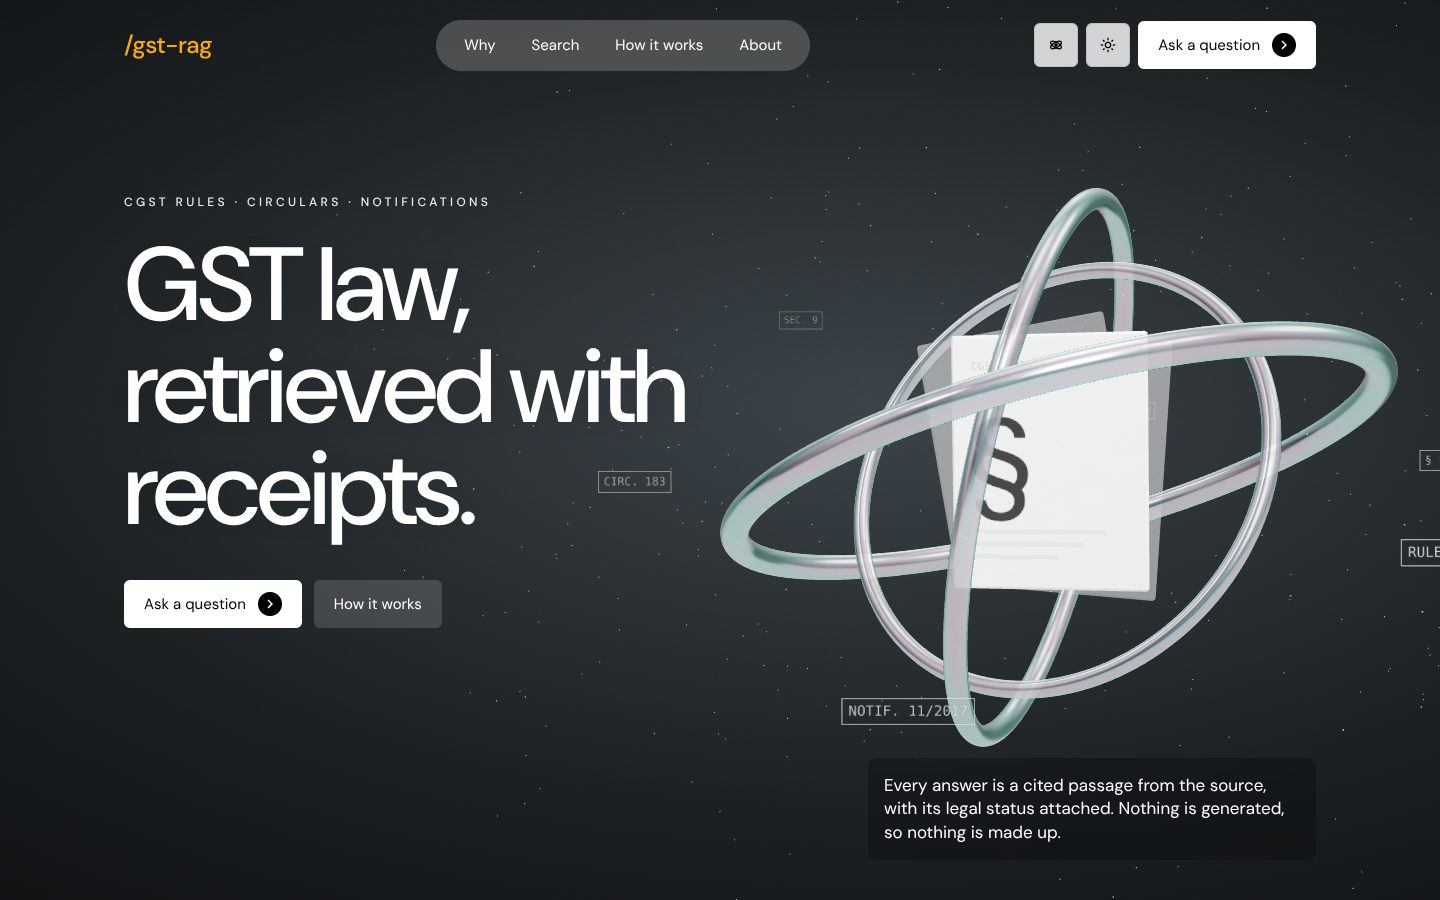
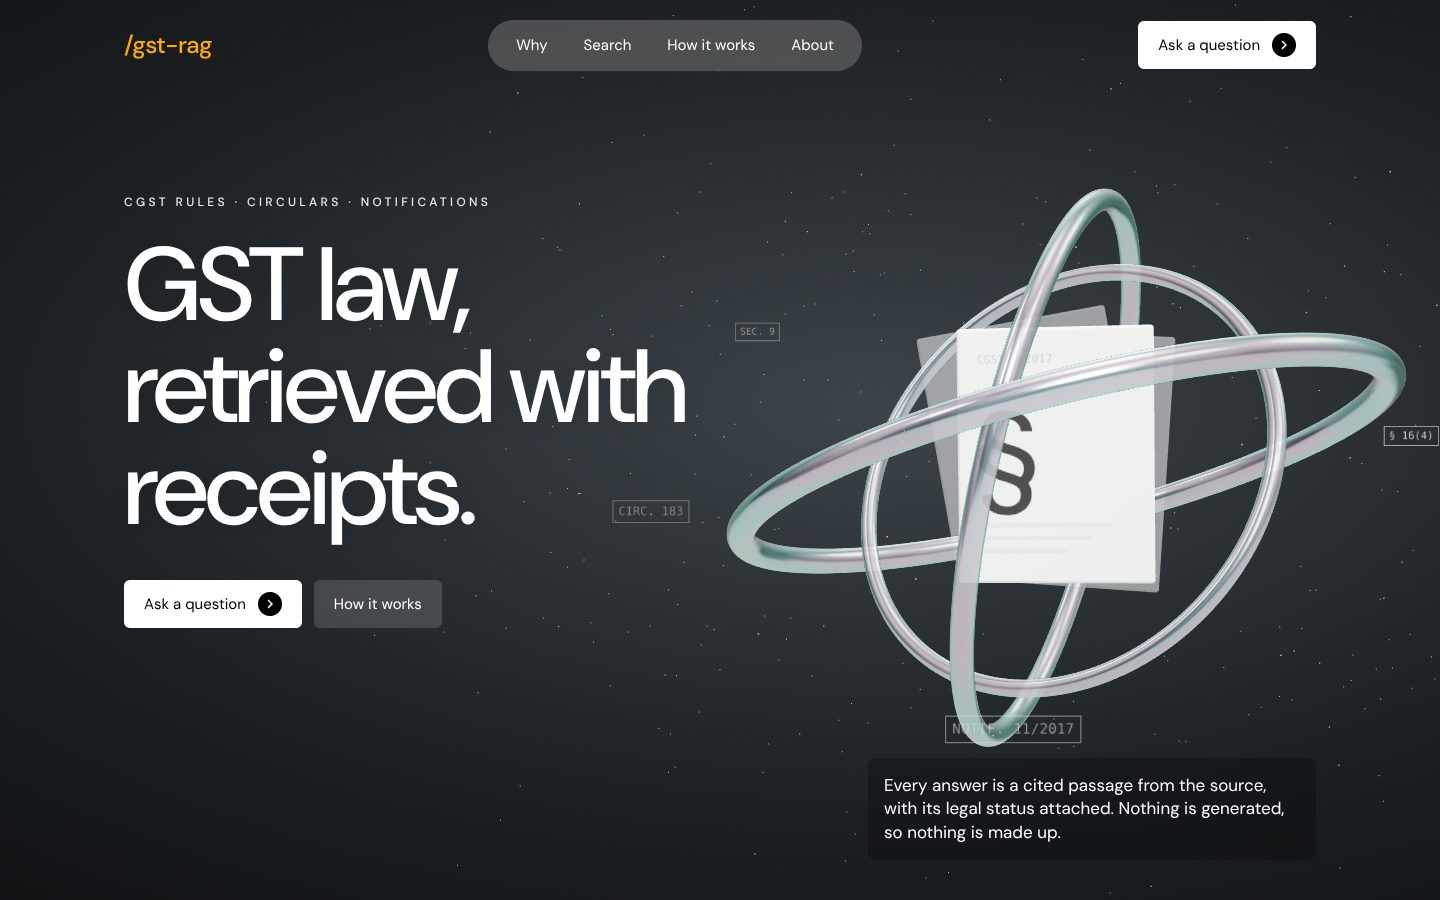
Frontend: dark theme only, motion always on; remove theme and motion switches
Claude-Session: https://claude.ai/code/session_01BcUV2UwaDs38gkFiSr981i

diff --git a/frontend/src/App.tsx b/frontend/src/App.tsx
@@ -12,68 +12,7 @@ import { fetchHealth, fetchVariants, runQuery } from "./api";
 import { useReveal, useScrollVar } from "./hooks/useReveal";
 import type { QueryResponse, Variant } from "./types";
 
-function readTheme(): boolean {
-  try {
-    const stored = localStorage.getItem("gst-rag-theme");
-    if (stored) return stored === "dark";
-  } catch {
-    // storage unavailable; fall through to the OS preference
-  }
-  return window.matchMedia("(prefers-color-scheme: dark)").matches;
-}
-
-function useDarkMode(): [boolean, () => void] {
-  const [dark, setDark] = useState(readTheme);
-
-  useEffect(() => {
-    document.documentElement.classList.toggle("dark", dark);
-    try {
-      localStorage.setItem("gst-rag-theme", dark ? "dark" : "light");
-    } catch {
-      // ignore
-    }
-  }, [dark]);
-
-  return [dark, () => setDark((value) => !value)];
-}
-
-function readMotion(): boolean {
-  try {
-    const stored = localStorage.getItem("gst-rag-motion");
-    if (stored) return stored === "on";
-  } catch {
-    // storage unavailable
-  }
-  return !window.matchMedia("(prefers-reduced-motion: reduce)").matches;
-}
-
-/** Motion follows the OS setting until the visitor flips the switch in the nav. */
-function useMotion(): [boolean, () => void] {
-  const [motion, setMotion] = useState(() => {
-    const value = readMotion();
-    document.documentElement.classList.toggle("reduce-motion", !value);
-    return value;
-  });
-  useEffect(() => {
-    document.documentElement.classList.toggle("reduce-motion", !motion);
-  }, [motion]);
-  return [
-    motion,
-    () =>
-      setMotion((value) => {
-        try {
-          localStorage.setItem("gst-rag-motion", value ? "off" : "on");
-        } catch {
-          // ignore
-        }
-        return !value;
-      }),
-  ];
-}
-
 export default function App() {
-  const [dark, toggleDark] = useDarkMode();
-  const [motion, toggleMotion] = useMotion();
   const [variants, setVariants] = useState<Variant[]>([]);
   const [chunks, setChunks] = useState<number | null>(null);
   const [selectedVariant, setSelectedVariant] = useState("");
@@ -83,7 +22,7 @@ export default function App() {
   const [error, setError] = useState<string | null>(null);
 
   useScrollVar();
-  useTilt(motion);
+  useTilt(true);
   useReveal([result]);
 
   useEffect(() => {
@@ -123,10 +62,10 @@ export default function App() {
       <a href="#search" className="sr-only focus:not-sr-only focus:fixed focus:left-4 focus:top-4 focus:z-[60] focus:rounded focus:bg-white focus:px-3 focus:py-2 focus:text-black">
         Skip to search
       </a>
-      <Backdrop key={motion ? "m" : "s"} motion={motion} />
-      <Nav dark={dark} onToggleDark={toggleDark} motion={motion} onToggleMotion={toggleMotion} />
+      <Backdrop motion />
+      <Nav />
       <main>
-        <Hero motion={motion} onToggleMotion={toggleMotion} />
+        <Hero />
         <Principles />
         <SearchSection
           variants={variants}

diff --git a/frontend/src/components/Nav.tsx b/frontend/src/components/Nav.tsx
@@ -7,17 +7,7 @@ const LINKS = [
   { href: "#about", label: "About" },
 ];
 
-interface NavProps {
-  dark: boolean;
-  onToggleDark: () => void;
-  motion: boolean;
-  onToggleMotion: () => void;
-}
-
-const iconBtn =
-  "grid h-11 w-11 place-items-center rounded-md border border-black/10 bg-white/80 text-black backdrop-blur transition hover:bg-white";
-
-export default function Nav({ dark, onToggleDark, motion, onToggleMotion }: NavProps) {
+export default function Nav() {
   return (
     <header className="fixed inset-x-0 top-0 z-50">
       <div className="container-x flex items-center justify-between gap-4 py-5">
@@ -42,43 +32,6 @@ export default function Nav({ dark, onToggleDark, motion, onToggleMotion }: NavP
         </nav>
 
         <div className="flex items-center gap-2">
-          <button
-            type="button"
-            onClick={onToggleMotion}
-            aria-pressed={motion}
-            aria-label={motion ? "Turn motion off" : "Turn motion on"}
-            title={motion ? "Motion on" : "Motion off"}
-            className={iconBtn}
-          >
-            {motion ? (
-              <svg viewBox="0 0 24 24" className="h-4 w-4" fill="none" stroke="currentColor" strokeWidth="2">
-                <ellipse cx="12" cy="12" rx="9" ry="4" transform="rotate(-30 12 12)" />
-                <ellipse cx="12" cy="12" rx="9" ry="4" transform="rotate(30 12 12)" />
-                <circle cx="12" cy="12" r="1.6" fill="currentColor" />
-              </svg>
-            ) : (
-              <svg viewBox="0 0 24 24" className="h-4 w-4" fill="currentColor">
-                <path d="M8 5.5v13l10-6.5-10-6.5Z" />
-              </svg>
-            )}
-          </button>
-          <button
-            type="button"
-            onClick={onToggleDark}
-            aria-label={dark ? "Switch to light mode" : "Switch to dark mode"}
-            className={iconBtn}
-          >
-            {dark ? (
-              <svg viewBox="0 0 24 24" className="h-4 w-4" fill="none" stroke="currentColor" strokeWidth="2">
-                <circle cx="12" cy="12" r="4" />
-                <path d="M12 2v2M12 20v2M2 12h2M20 12h2M4.9 4.9l1.4 1.4M17.7 17.7l1.4 1.4M4.9 19.1l1.4-1.4M17.7 6.3l1.4-1.4" strokeLinecap="round" />
-              </svg>
-            ) : (
-              <svg viewBox="0 0 24 24" className="h-4 w-4" fill="currentColor">
-                <path d="M20 14.5A8 8 0 0 1 9.5 4a8 8 0 1 0 10.5 10.5Z" />
-              </svg>
-            )}
-          </button>
           <a href="#search" className="btn-light hidden sm:inline-flex">
             Ask a question <ArrowDot />
           </a>

diff --git a/frontend/src/components/Hero.tsx b/frontend/src/components/Hero.tsx
@@ -1,6 +1,6 @@
 import { ArrowDot } from "./Icons";
 
-export default function Hero({ motion, onToggleMotion }: { motion: boolean; onToggleMotion: () => void }) {
+export default function Hero() {
   return (
     <section id="top" data-scene-window className="relative isolate overflow-hidden">
       <div className="container-x relative grid min-h-[100svh] grid-rows-[1fr_auto] pb-10 pt-28 lg:pt-32">
@@ -20,19 +20,6 @@ export default function Hero({ motion, onToggleMotion }: { motion: boolean; onTo
               How it works
             </a>
           </div>
-          {!motion && (
-            <button
-              type="button"
-              onClick={onToggleMotion}
-              className="mt-5 inline-flex items-center gap-2 rounded-full bg-black/30 px-4 py-2 text-sm text-white
-                         backdrop-blur-md transition hover:bg-black/45"
-            >
-              <svg viewBox="0 0 24 24" className="h-3.5 w-3.5" fill="currentColor" aria-hidden>
-                <path d="M8 5.5v13l10-6.5-10-6.5Z" />
-              </svg>
-              Motion is off on this device. Turn on 3D motion
-            </button>
-          )}
         </div>
 
         <p className="relative mt-16 max-w-md justify-self-end rounded-lg bg-black/25 p-4 text-[17px]

diff --git a/frontend/src/index.css b/frontend/src/index.css
@@ -123,11 +123,6 @@ body {
 .reveal { opacity: 0; transform: translateY(24px); transition: opacity 0.8s ease, transform 0.8s ease; }
 .reveal.in { opacity: 1; transform: none; }
 
-/* Motion off: set from the OS preference, overridable with the nav switch. */
-.reduce-motion { scroll-behavior: auto; }
-.reduce-motion .ring-a, .reduce-motion .ring-b, .reduce-motion .ring-c, .reduce-motion .float { animation: none; }
-.reduce-motion .orbit-spin { transition: none; }
-.reduce-motion .reveal { opacity: 1; transform: none; transition: none; }
 
 /* Headline lines swing up out of the page on load. */
 .rise3d {
@@ -151,5 +146,4 @@ body {
   transition: transform 0.25s ease-out, opacity 0.8s ease, background-color 0.2s;
 }
 
-.reduce-motion .rise3d { opacity: 1; transform: none; animation: none; }
-.reduce-motion [data-tilt].reveal.in, .reduce-motion [data-tilt]:not(.reveal) { transform: none; }
+

diff --git a/frontend/index.html b/frontend/index.html
@@ -1,5 +1,5 @@
 <!doctype html>
-<html lang="en">
+<html lang="en" class="dark">
   <head>
     <meta charset="UTF-8" />
     <meta name="viewport" content="width=device-width, initial-scale=1.0" />
